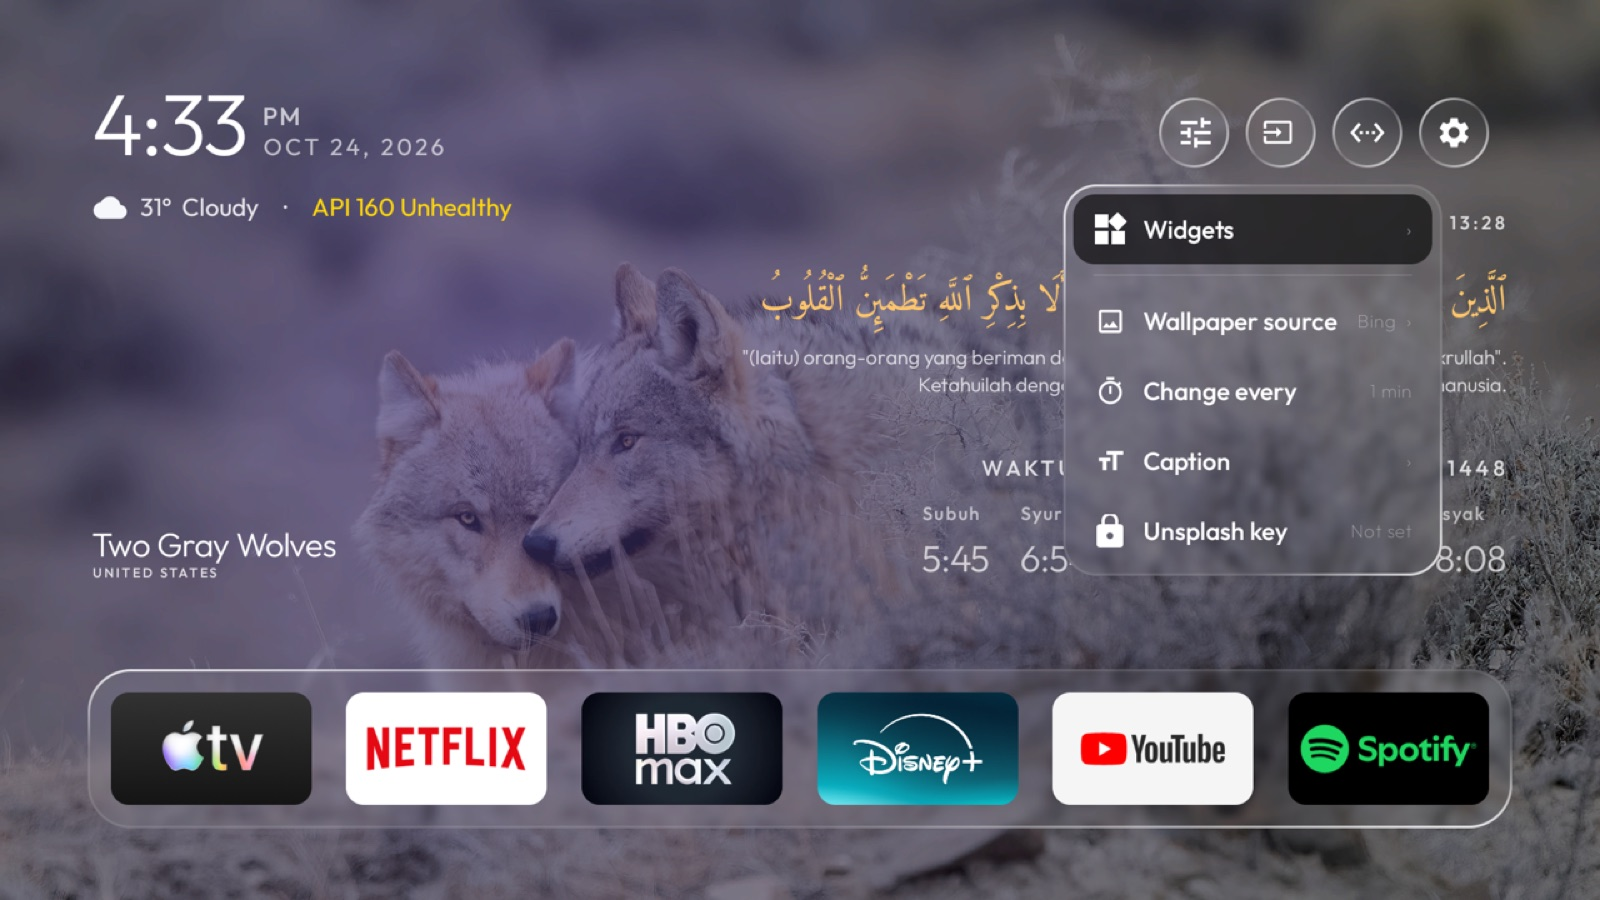
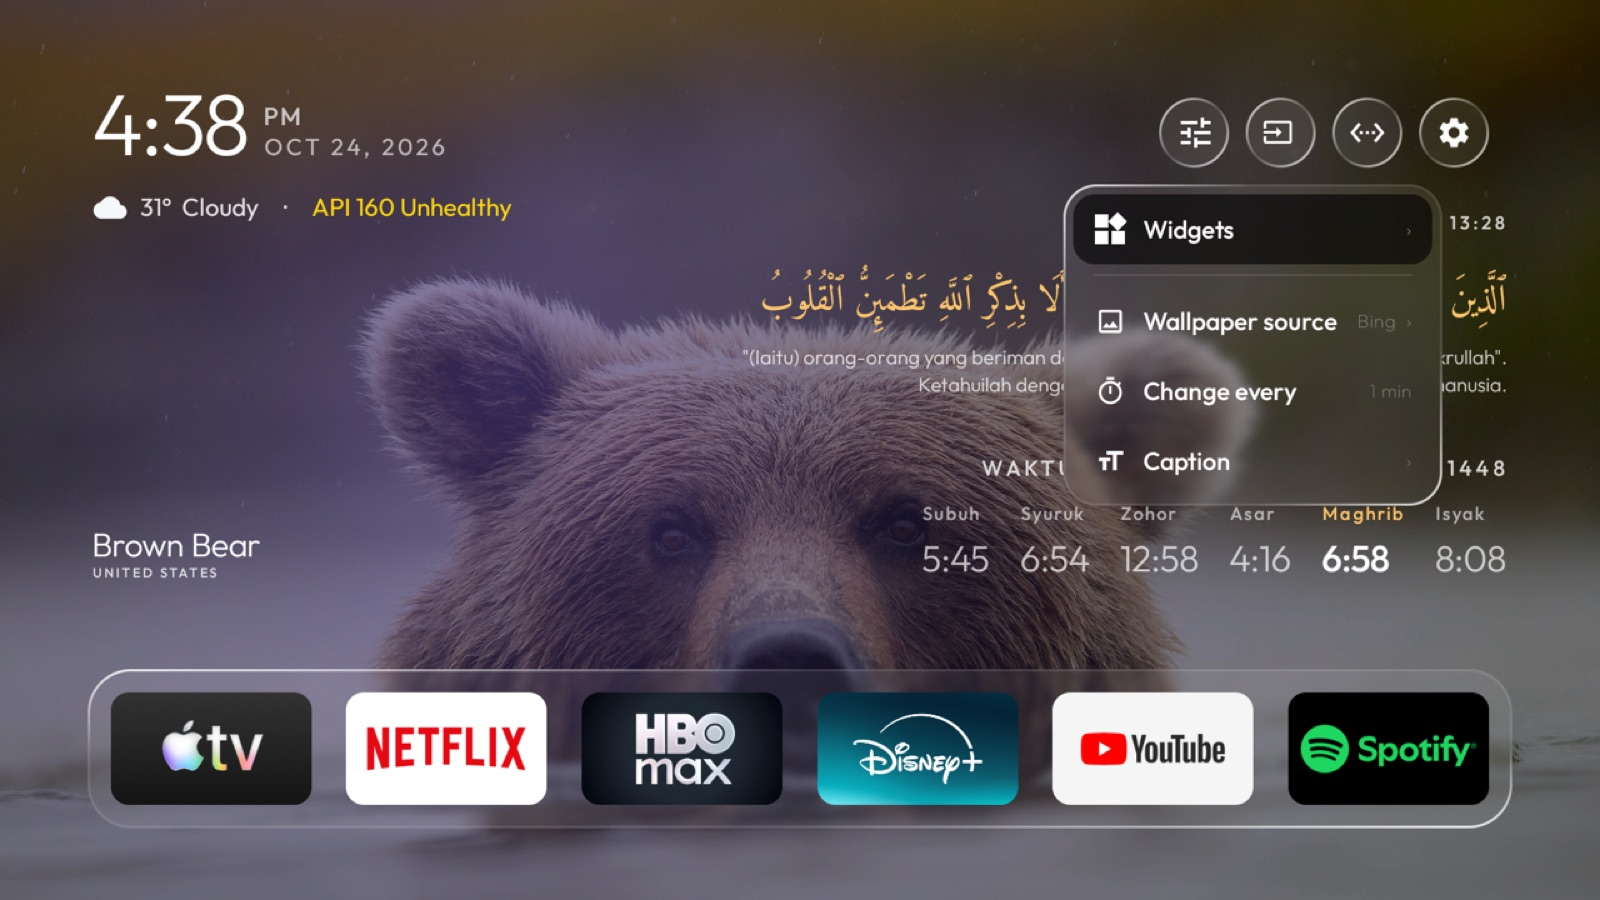
Home menu: Back in a submenu returns to the menu above; Unsplash key under Wallpaper source

diff --git a/launcher/app/src/main/java/com/gathin/tvhome/MainActivity.java b/launcher/app/src/main/java/com/gathin/tvhome/MainActivity.java
@@ -2232,14 +2232,27 @@ public class MainActivity extends Activity implements AppAdapter.TileListener {
             });
             rows.addView(row);
         }
+        // The Unsplash key sits with the sources: typed here, on the TV, so no computer is needed.
+        addSeparator(rows);
+        View keyRow = getLayoutInflater().inflate(R.layout.item_input, rows, false);
+        ((ImageView) keyRow.findViewById(R.id.icon)).setImageResource(R.drawable.ic_lock);
+        ((TextView) keyRow.findViewById(R.id.title)).setText(R.string.unsplash_key);
+        ((TextView) keyRow.findViewById(R.id.status)).setText(PlaceWallpapers.unsplashKey(this, config).isEmpty()
+                ? R.string.unsplash_key_not_set : R.string.unsplash_key_saved);
+        keyRow.findViewById(R.id.dot).setVisibility(View.GONE);
+        keyRow.setOnClickListener(v -> {
+            close.run();
+            showUnsplashKeyDialog();
+        });
+        rows.addView(keyRow);
         panel.measure(View.MeasureSpec.UNSPECIFIED, View.MeasureSpec.UNSPECIFIED);
         int width = Math.max(Math.max(btnWallpaper.getWidth(), (int) (150 * density)), panel.getMeasuredWidth());
-        showMenu(panel, rows, btnWallpaper, width, false);
+        showSubmenu(panel, rows, width, this::showWallpaperSources);
     }
 
     /**
      * The Home menu (the first top button): Widgets (location, azan, ayat) one level down, then the
-     * wallpaper: where the pictures come from, how often they change, the caption, the Unsplash key.
+     * wallpaper: where the pictures come from (with the Unsplash key), how often they change, the caption.
      */
     private void showWallpaperSources() {
         if (openMenu != null) return;
@@ -2301,18 +2314,6 @@ public class MainActivity extends Activity implements AppAdapter.TileListener {
             handler.post(() -> showTextOptions(false));
         });
         rows.addView(textRow);
-        // The key is typed here, on the TV, so no computer is needed to turn Unsplash on or change it.
-        View keyRow = getLayoutInflater().inflate(R.layout.item_input, rows, false);
-        ((ImageView) keyRow.findViewById(R.id.icon)).setImageResource(R.drawable.ic_lock);
-        ((TextView) keyRow.findViewById(R.id.title)).setText(R.string.unsplash_key);
-        ((TextView) keyRow.findViewById(R.id.status)).setText(PlaceWallpapers.unsplashKey(this, config).isEmpty()
-                ? R.string.unsplash_key_not_set : R.string.unsplash_key_saved);
-        keyRow.findViewById(R.id.dot).setVisibility(View.GONE);
-        keyRow.setOnClickListener(v -> {
-            close.run();
-            showUnsplashKeyDialog();
-        });
-        rows.addView(keyRow);
         panel.measure(View.MeasureSpec.UNSPECIFIED, View.MeasureSpec.UNSPECIFIED);
         int width = Math.max(Math.max(btnWallpaper.getWidth(), (int) (150 * density)), panel.getMeasuredWidth());
         showMenu(panel, rows, btnWallpaper, width, false);
@@ -2350,7 +2351,7 @@ public class MainActivity extends Activity implements AppAdapter.TileListener {
         rows.addView(test);
         panel.measure(View.MeasureSpec.UNSPECIFIED, View.MeasureSpec.UNSPECIFIED);
         int width = Math.max(Math.max(btnWallpaper.getWidth(), (int) (150 * density)), panel.getMeasuredWidth());
-        showMenu(panel, rows, btnWallpaper, width, false);
+        showSubmenu(panel, rows, width, () -> showTextOptions(true));
     }
 
     /**
@@ -2464,7 +2465,7 @@ public class MainActivity extends Activity implements AppAdapter.TileListener {
         }
         panel.measure(View.MeasureSpec.UNSPECIFIED, View.MeasureSpec.UNSPECIFIED);
         int width = Math.max(Math.max(btnWallpaper.getWidth(), (int) (150 * density)), panel.getMeasuredWidth());
-        showMenu(panel, rows, btnWallpaper, width, false);
+        showSubmenu(panel, rows, width, this::showWallpaperSources);
     }
 
     private String speedLabel(long ms) {
@@ -2527,7 +2528,17 @@ public class MainActivity extends Activity implements AppAdapter.TileListener {
      * itself, and the glass and rows fade in around it. Up from the first row (Down from the last when
      * the menu is above), or Back, closes it and the shape glides back to the anchor.
      */
+    /** What Back does in the open menu: in a submenu, reopen the menu it came from; null closes it. */
+    private Runnable menuBack;
+
+    /** Opens a submenu of {@code parent}: Back there returns to the parent menu instead of closing. */
+    private void showSubmenu(FrameLayout panel, LinearLayout rows, int width, Runnable parent) {
+        showMenu(panel, rows, btnWallpaper, width, false);
+        menuBack = parent;
+    }
+
     private void showMenu(FrameLayout panel, LinearLayout rows, View anchor, int width, boolean above) {
+        menuBack = null;
         GlassDrawable glass = new GlassDrawable(panel, 20 * density, density, glider, 0.5f, true);
         panel.setBackground(glass);
         Backdrop.watch(panel);
@@ -2578,7 +2589,15 @@ public class MainActivity extends Activity implements AppAdapter.TileListener {
                     case KeyEvent.KEYCODE_DPAD_RIGHT:
                         return true;
                     case KeyEvent.KEYCODE_BACK:
-                        if (down) closeMenu(true);
+                        if (down) {
+                            Runnable back = menuBack;
+                            if (back != null) {
+                                closeMenu(false);
+                                handler.post(back);
+                            } else {
+                                closeMenu(true);
+                            }
+                        }
                         return true;
                     default:
                         return false;

diff --git a/README.md b/README.md
@@ -52,7 +52,8 @@ Tested on a Sony BRAVIA VU3 (KD-65X75K), Google TV / Android TV 14, over Etherne
 - **Round top buttons** that expand with their name when selected.
 - **One Home menu** (the first top button): **Widgets** › (Location, Azan, Ayat of the day, Ayat translation),
   then the wallpaper: **Wallpaper source** › (Bing, Wikimedia, Nature & Wildlife, NASA, Smithsonian,
-  Unsplash), **Change every**, **Caption** › (Text size, Place info) and **Unsplash key**.
+  Unsplash, and the Unsplash key), **Change every** and **Caption** › (Text size, Place info). Back in a
+  submenu returns to the menu above.
 - **App menu** (hold OK on an app): Move, Update, tvOS-style or the app's own tile, Hide from Home,
   App info, Hidden apps.
 - **Clear selection**: the selected app grows by 14% and lifts on a shadow, as on tvOS.
@@ -134,7 +135,7 @@ The full step-by-step guide (connecting, backing up, switching off the TV's extr
      empty and skip the Location screen: there are no prayer times, and the weather line uses
      `weather_lat`/`weather_lon`.
    - `unsplash_key`: leave it empty; an Unsplash key, if you have one, is typed on the TV
-     (Home → Unsplash key), never written here.
+     (Home → Wallpaper source → Unsplash key), never written here.
 3. **Your TV's example list** — `examples/` has tested lists of what to switch off for many TVs. Use the one
    for your model, or let the guide help you make one.
 
